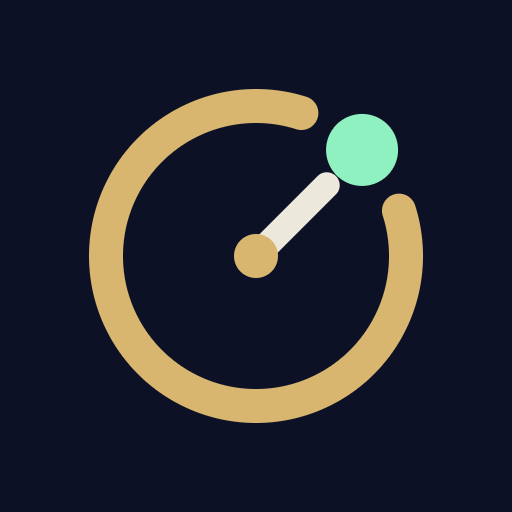
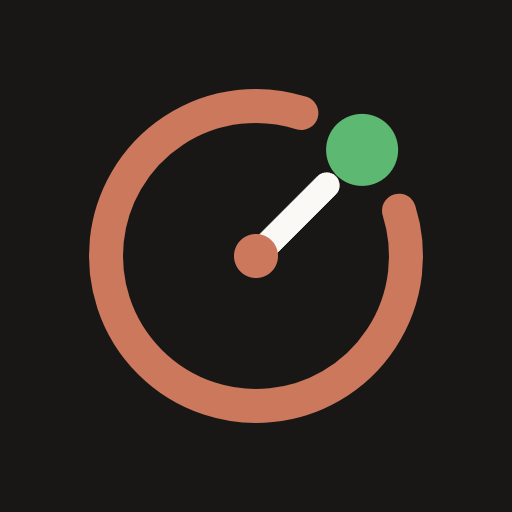
Add files via upload

Changed region(s): [[0.1562, 0.1562, 0.8438, 0.8438], [0.4375, 0.2188, 0.7812, 0.5625]]

diff --git a/index.html b/index.html
@@ -11,10 +11,11 @@
 <meta name="apple-mobile-web-app-title" content="TP Notify">
 <link rel="apple-touch-icon" href="icon-192.png">
 <script>
-  // Apply the saved theme before first paint so there is no flash. Default is light (cream).
+  // Apply the saved theme before first paint so there is no flash. Default is Auto (follows the phone), so the
+  // system status bar at the top of the screen, which always follows the phone, matches the app.
   (function () {
-    var mode = "light";
-    try { mode = localStorage.getItem("tp-theme") || "light"; } catch (e) {}
+    var mode = "auto";
+    try { mode = localStorage.getItem("tp-theme") || "auto"; } catch (e) {}
     var dark = mode === "dark" || (mode === "auto" && matchMedia("(prefers-color-scheme: dark)").matches);
     document.documentElement.dataset.theme = dark ? "dark" : "light";
   })();
@@ -521,11 +522,11 @@
     <button class="secondary signout" type="button">Sign Out</button>
     <h2>Appearance</h2>
     <div class="seg" id="theme" role="group" aria-label="Appearance">
-      <button data-mode="light" aria-pressed="true">Light</button>
+      <button data-mode="auto" aria-pressed="true">Auto</button>
+      <button data-mode="light" aria-pressed="false">Light</button>
       <button data-mode="dark" aria-pressed="false">Dark</button>
-      <button data-mode="auto" aria-pressed="false">Auto</button>
     </div>
-    <p class="muted">Auto follows your phone's setting.</p>
+    <p class="muted">Auto follows your phone's setting. It is the only choice where the bar at the very top of the screen matches the app.</p>
     <h2>Quiet Hours</h2>
     <p class="muted">Alerts that arrive during these hours are skipped, not saved for later. Anything you miss still shows on the Alerts tab.</p>
     <div class="group">

diff --git a/app.js b/app.js
@@ -390,7 +390,7 @@ $("test").onclick = async () => {
 };
 
 // ---- Update notice: friends who never close the app still find out when a new version is ready ----
-const APP_VERSION = 38;   // keep equal to the number in CACHE ("timepiece-vNN") in sw.js; bump both on every release
+const APP_VERSION = 39;   // keep equal to the number in CACHE ("timepiece-vNN") in sw.js; bump both on every release
 async function checkForUpdate() {
   try {
     const m = /timepiece-v(\d+)/.exec(await (await fetch("sw.js", { cache: "no-store" })).text());
@@ -543,8 +543,8 @@ $("diagnose").onclick = async () => {
   $("diag-note").textContent = note;
 };
 
-// ---- Theme (Light / Dark / Auto; default Light) ----
-function savedMode() { try { return localStorage.getItem("tp-theme") || "light"; } catch { return "light"; } }
+// ---- Theme (Auto / Light / Dark; default Auto, because the iPhone status bar always follows the phone) ----
+function savedMode() { try { return localStorage.getItem("tp-theme") || "auto"; } catch { return "auto"; } }
 function applyTheme(mode) {
   const dark = mode === "dark" || (mode === "auto" && matchMedia("(prefers-color-scheme: dark)").matches);
   document.documentElement.dataset.theme = dark ? "dark" : "light";

diff --git a/sw.js b/sw.js
@@ -1,4 +1,4 @@
-const CACHE = "timepiece-v38";
+const CACHE = "timepiece-v39";
 const SHELL = ["./", "index.html", "app.js", "manifest.webmanifest", "icon-192.png", "icon-512.png"];
 const TITLES = { on_sale: "Tickets on Sale", on_sale_soon: "On Sale Soon", check: "Check Manually", problem: "Watcher Problem", test: "Test Notification", signup: "New Sign-Up Request" };
 
